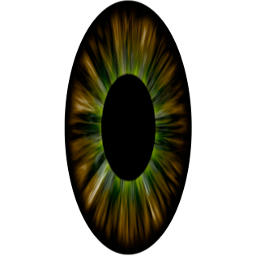
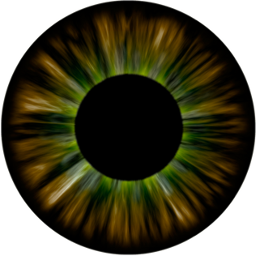
Added refraction to irises.

diff --git a/interface/src/Head.cpp b/interface/src/Head.cpp
@@ -87,12 +87,14 @@ void Head::init() {
     
         _irisProgram->setUniformValue("texture", 0);
         
-        QImage image = QImage(IRIS_TEXTURE_FILENAME).convertToFormat(QImage::Format_RGB888);
+        QImage image = QImage(IRIS_TEXTURE_FILENAME).convertToFormat(QImage::Format_ARGB32);
         
         glGenTextures(1, &_irisTextureID);
         glBindTexture(GL_TEXTURE_2D, _irisTextureID);
-        glTexImage2D(GL_TEXTURE_2D, 0, GL_RGB, image.width(), image.height(), 0, GL_RGB, GL_UNSIGNED_BYTE, image.constBits());
-        glTexParameterf(GL_TEXTURE_2D, GL_TEXTURE_MIN_FILTER, GL_LINEAR);
+        glTexImage2D(GL_TEXTURE_2D, 0, GL_RGBA, image.width(), image.height(), 1, GL_BGRA, GL_UNSIGNED_BYTE, image.constBits());
+        glTexParameteri(GL_TEXTURE_2D, GL_TEXTURE_MIN_FILTER, GL_LINEAR);
+        glTexParameteri(GL_TEXTURE_2D, GL_TEXTURE_WRAP_S, GL_CLAMP_TO_BORDER);
+        glTexParameteri(GL_TEXTURE_2D, GL_TEXTURE_WRAP_T, GL_CLAMP_TO_BORDER);
         glBindTexture(GL_TEXTURE_2D, 0);
     }
 }
@@ -462,24 +464,18 @@ void Head::renderEyeBrows() {
 
 void Head::renderEyeBalls() {                                 
     
-    // setup the texture to be used on each iris
-    GLUquadric* irisQuadric = gluNewQuadric();
-    gluQuadricTexture(irisQuadric, GL_TRUE);
-    
-    gluQuadricOrientation(irisQuadric, GLU_OUTSIDE);
-
     // render white ball of left eyeball
     glPushMatrix();
         glColor3fv(EYEBALL_COLOR);
         glTranslatef(_leftEyePosition.x, _leftEyePosition.y, _leftEyePosition.z);        
-        gluSphere(irisQuadric, EYEBALL_RADIUS, 30, 30);
+        glutSolidSphere(EYEBALL_RADIUS, 30, 30);
     glPopMatrix();
     
     //render white ball of right eyeball
     glPushMatrix();
         glColor3fv(EYEBALL_COLOR);
-        glTranslatef(_rightEyePosition.x, _rightEyePosition.y, _rightEyePosition.z);        
-        gluSphere(irisQuadric, EYEBALL_RADIUS, 30, 30);
+        glTranslatef(_rightEyePosition.x, _rightEyePosition.y, _rightEyePosition.z);
+        glutSolidSphere(EYEBALL_RADIUS, 30, 30);
     glPopMatrix();
 
     _irisProgram->bind();
@@ -492,44 +488,36 @@ void Head::renderEyeBalls() {
     // render left iris
     glPushMatrix(); {
         glTranslatef(_leftEyePosition.x, _leftEyePosition.y, _leftEyePosition.z); //translate to eyeball position
-        glPushMatrix();
-            //rotate the eyeball to aim towards the lookat position
-            glm::vec3 targetLookatVector = _lookAtPosition + _saccade - _leftEyePosition;
-            glm::quat rotation = rotationBetween(front, targetLookatVector) * orientation;
-            glm::vec3 rotationAxis = glm::axis(rotation);           
-            glRotatef(glm::angle(rotation), rotationAxis.x, rotationAxis.y, rotationAxis.z);
-            glRotatef(90.0, 1.0f, 0.0f, 0.0f); // rotate to face Z-
-            glTranslatef( 0.0f, -IRIS_PROTRUSION, 0.0f);
-            glScalef( 1.0f, 0.5f, 1.0f); // flatten the iris
-            gluSphere(irisQuadric, IRIS_RADIUS, 15, 15);
-        glPopMatrix();
+        
+        //rotate the eyeball to aim towards the lookat position
+        glm::vec3 targetLookatVector = _lookAtPosition + _saccade - _leftEyePosition;
+        glm::quat rotation = rotationBetween(front, targetLookatVector) * orientation;
+        glm::vec3 rotationAxis = glm::axis(rotation);           
+        glRotatef(glm::angle(rotation), rotationAxis.x, rotationAxis.y, rotationAxis.z);
+        glTranslatef(0.0f, 0.0f, -IRIS_PROTRUSION);
+        glScalef(IRIS_RADIUS * 2.0f, IRIS_RADIUS * 2.0f, IRIS_RADIUS); // flatten the iris
+        glutSolidSphere(0.5f, 15, 15);
     }
     glPopMatrix();
 
     // render right iris
     glPushMatrix(); {
         glTranslatef(_rightEyePosition.x, _rightEyePosition.y, _rightEyePosition.z);  //translate to eyeball position       
-        glPushMatrix();
-
-            //rotate the eyeball to aim towards the lookat position
-            glm::vec3 targetLookatVector = _lookAtPosition + _saccade - _rightEyePosition;
-            glm::quat rotation = rotationBetween(front, targetLookatVector) * orientation;
-            glm::vec3 rotationAxis = glm::axis(rotation);        
-            glRotatef(glm::angle(rotation), rotationAxis.x, rotationAxis.y, rotationAxis.z);
-            glRotatef(90.0f, 1.0f, 0.0f, 0.0f); // rotate to face Z-
-            glTranslatef( 0.0f, -IRIS_PROTRUSION, 0.0f);
-            glScalef( 1.0f, 0.5f, 1.0f); // flatten the iris
-            gluSphere(irisQuadric, IRIS_RADIUS, 15, 15);
-        glPopMatrix();
+        
+        //rotate the eyeball to aim towards the lookat position
+        glm::vec3 targetLookatVector = _lookAtPosition + _saccade - _rightEyePosition;
+        glm::quat rotation = rotationBetween(front, targetLookatVector) * orientation;
+        glm::vec3 rotationAxis = glm::axis(rotation);        
+        glRotatef(glm::angle(rotation), rotationAxis.x, rotationAxis.y, rotationAxis.z);
+        glTranslatef(0.0f, 0.0f, -IRIS_PROTRUSION);
+        glScalef(IRIS_RADIUS * 2.0f, IRIS_RADIUS * 2.0f, IRIS_RADIUS); // flatten the iris
+        glutSolidSphere(0.5f, 15, 15);
     }
+    glPopMatrix();
     
     _irisProgram->release();
     glBindTexture(GL_TEXTURE_2D, 0);
     glDisable(GL_TEXTURE_2D);
-    
-    // delete the iris quadric now that we're done with it
-    gluDeleteQuadric(irisQuadric);
-    glPopMatrix();
 }
 
 void Head::renderLookatVectors(glm::vec3 leftEyePosition, glm::vec3 rightEyePosition, glm::vec3 lookatPosition) {
